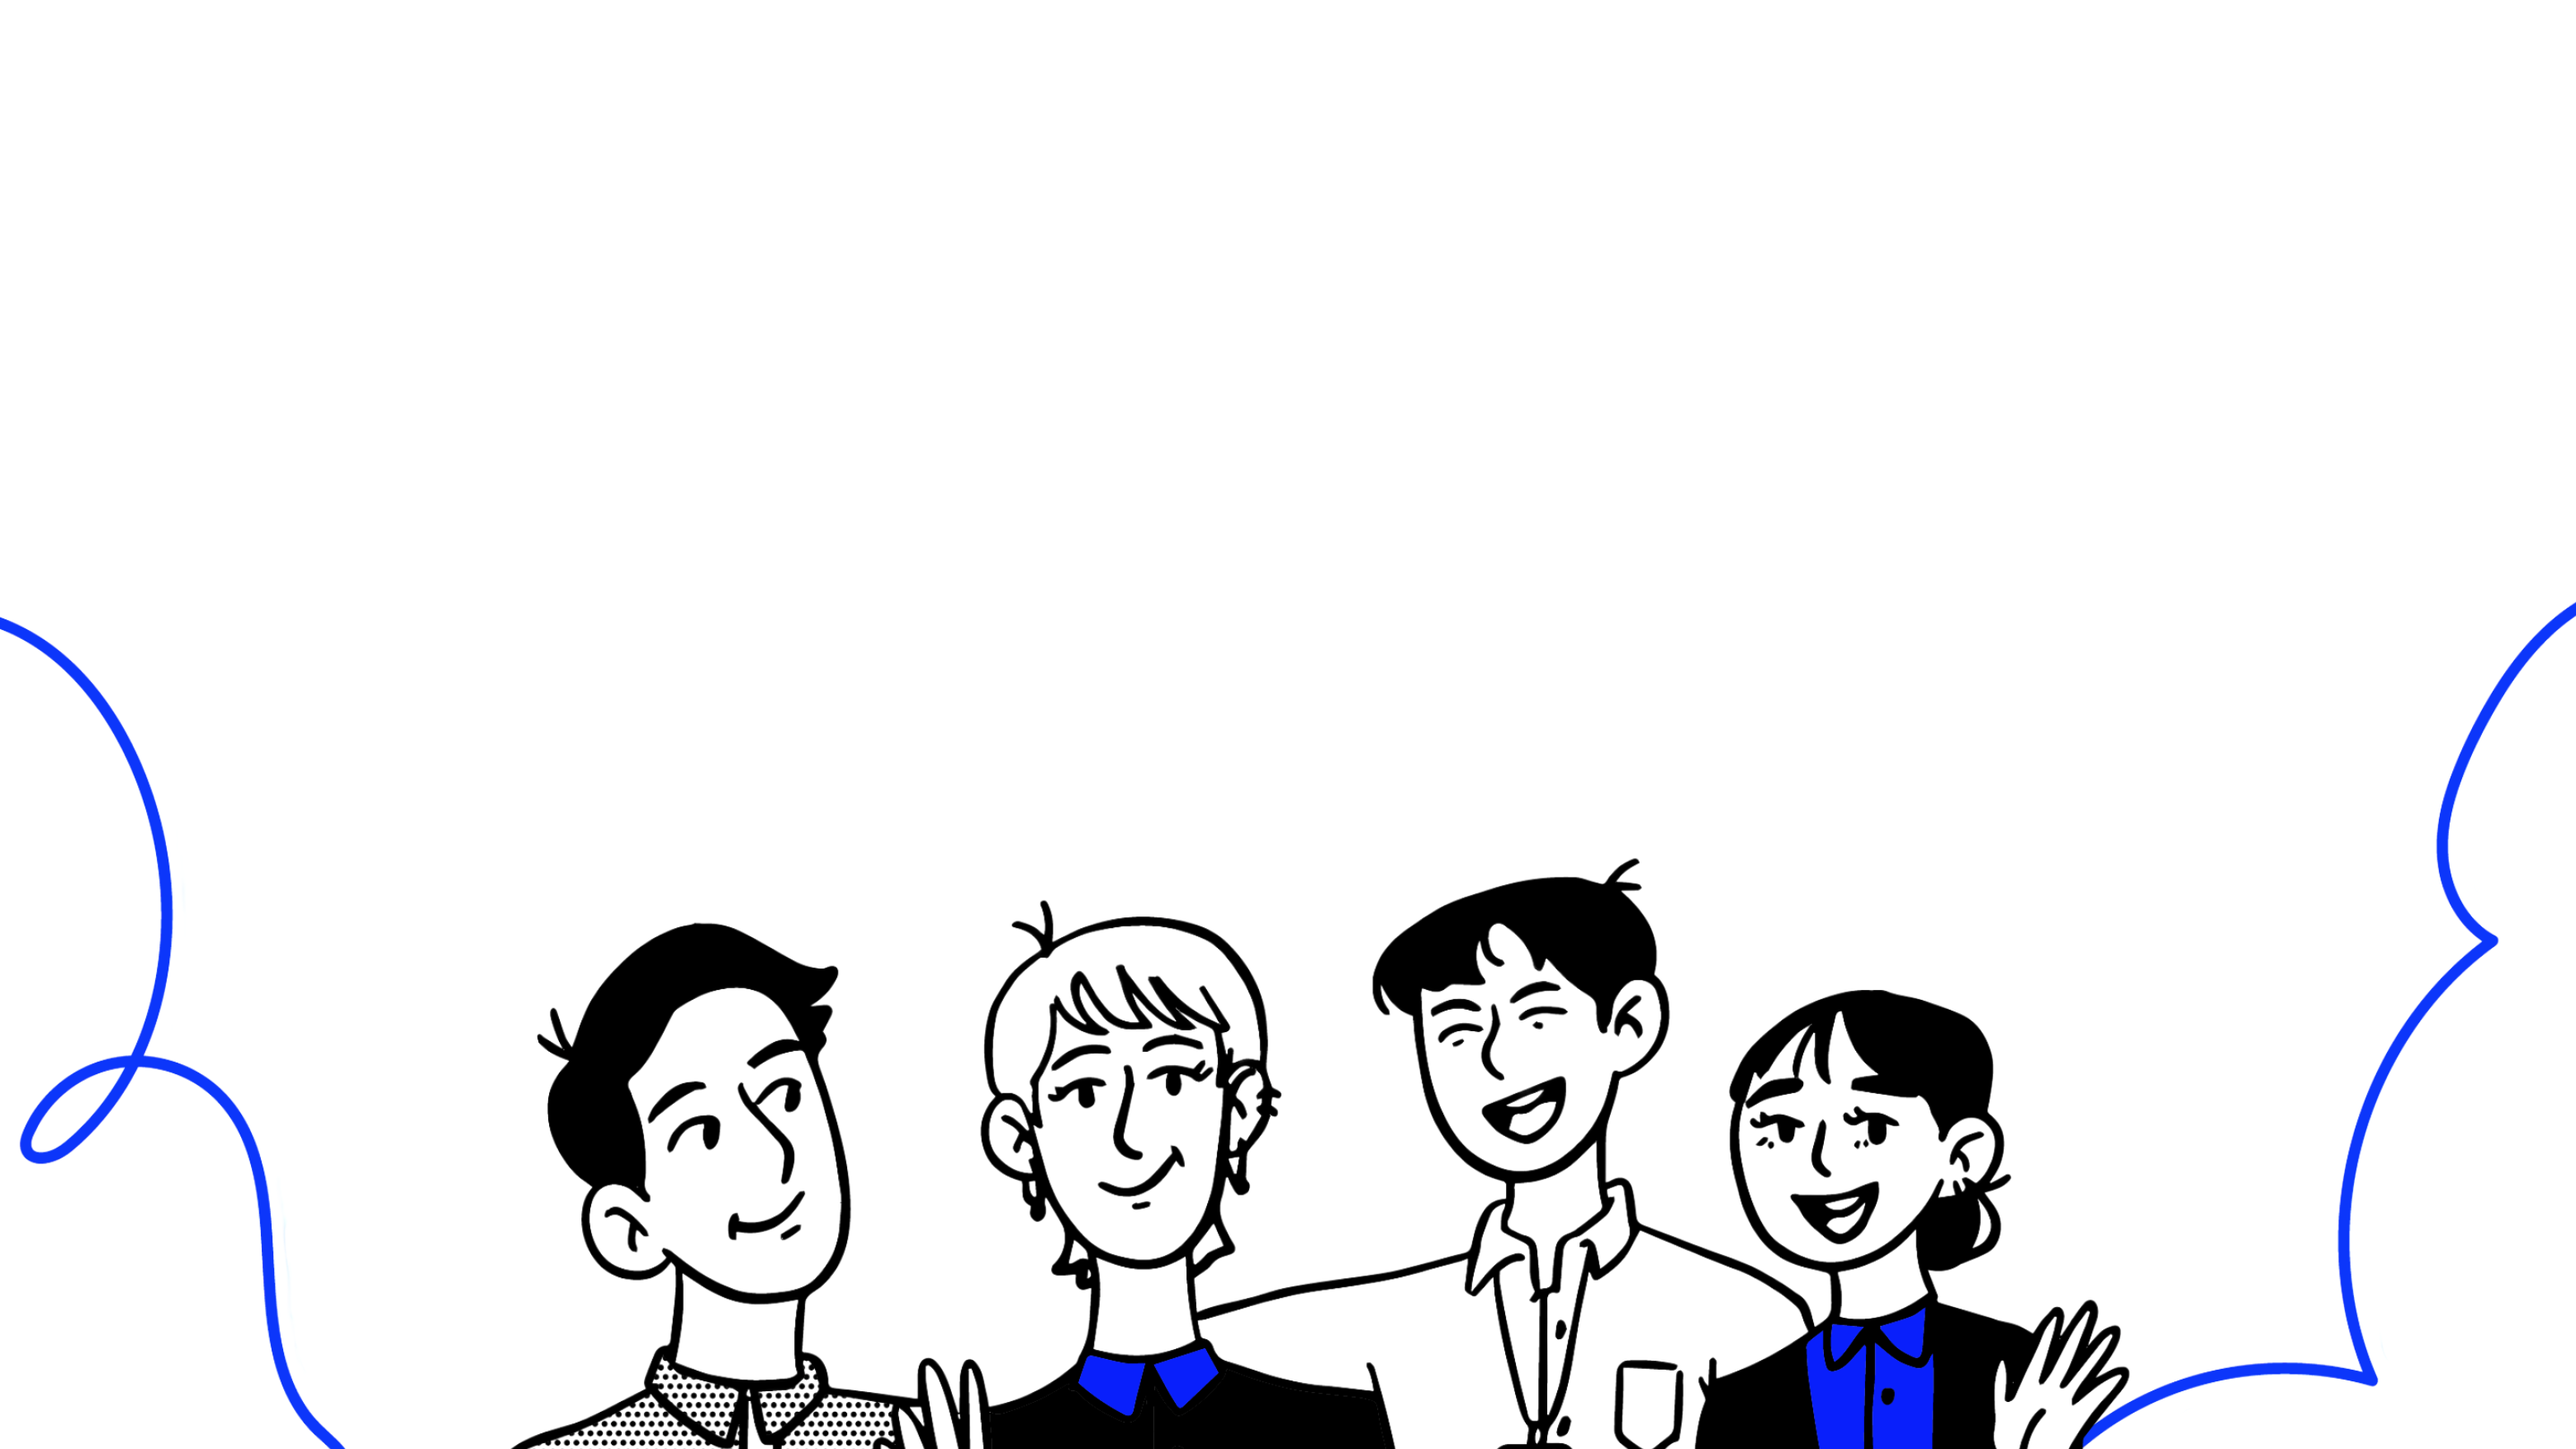
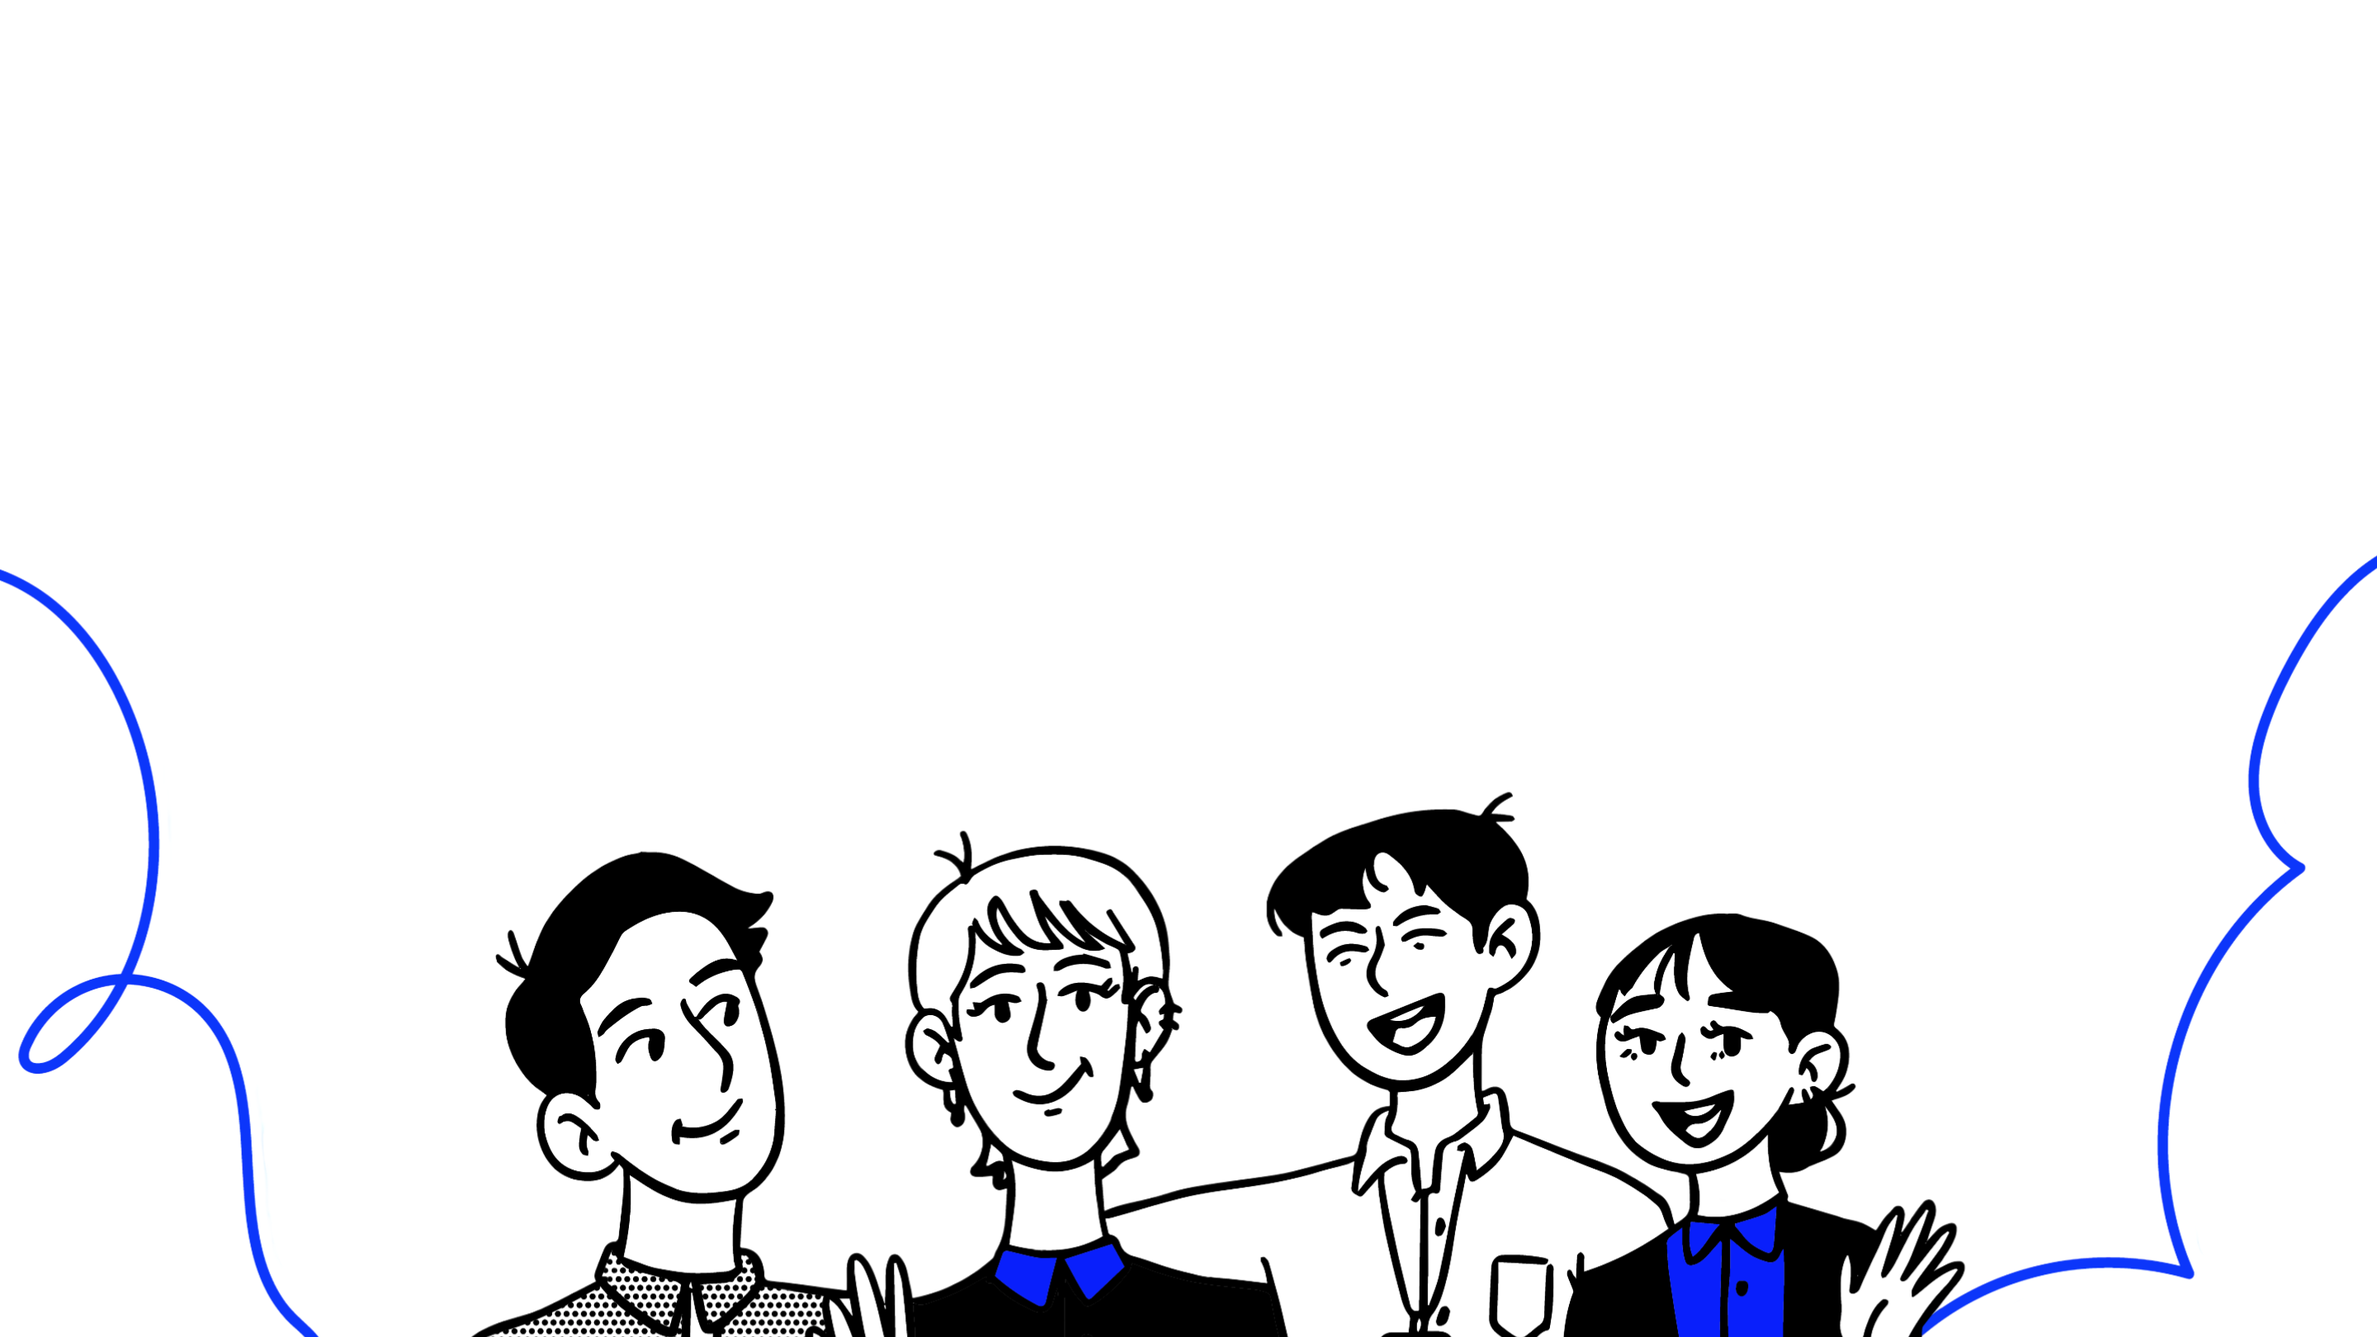
hero bg fixed

diff --git a/src/components/recruiterHero.tsx b/src/components/recruiterHero.tsx
@@ -1,0 +1,106 @@
+import HeroBg from "@/assets/recruiter-hero-bg.png";
+import { Button } from "@/components/ui/button";
+import { Input } from "@/components/ui/input";
+import { useState } from "react";
+import { toast } from "@/hooks/use-toast";
+import { trackEvent } from "@/hooks/useAnalytics";
+
+const RecruiterHero = () => {
+  const [email, setEmail] = useState("");
+  const [showModal, setShowModal] = useState(false);
+
+  const handleRecruiterEarlyAccess = (e: React.FormEvent) => {
+    e.preventDefault();
+    if (email) {
+      trackEvent("join_waitlist_recruiter");
+      toast({
+        title: "Thanks for your interest!",
+        description: "We'll notify you when Bondoul launches.",
+      });
+      setEmail("");
+      setShowModal(false);
+    }
+  };
+
+  const handleRecruiterGetStarted = () => {
+    setShowModal(true);
+    trackEvent("recruiter_get_started");
+  };
+
+  return (
+    <section className="relative min-h-screen flex items-start justify-center overflow-hidden pt-10 md:pt-20">
+      <div
+        className="absolute inset-0 bg-cover bg-center bg-no-repeat"
+        style={{ backgroundImage: `url(${HeroBg})` }}
+      />
+      <div className="absolute inset-0 bg-gradient-hero" />
+      <div className="relative z-10 max-w-6xl mx-auto px-6 text-center">
+        <h1 className="text-5xl md:text-7xl font-bold mb-6 bg-gradient-primary bg-clip-text text-transparent leading-tight">
+          XXXXXX
+          <br />
+          <span className="text-foreground">XXXXXXXXXX</span>
+        </h1>
+
+        <p className="text-xl md:text-2xl text-muted-foreground mb-8 max-w-3xl mx-auto leading-relaxed">
+          Forget clunky templates. Bondoul's CV Builder helps you create one
+          strong CV and remix it for different jobs — fast, smart, and
+          stress-free.
+        </p>
+        <div className="flex flex-col sm:flex-row gap-4 justify-center items-center mb-12">
+          <Button
+            variant="hero"
+            size="lg"
+            className="text-lg px-8 py-4"
+            onClick={handleRecruiterGetStarted}
+          >
+            Get Started
+          </Button>
+        </div>
+      </div>
+      {showModal && (
+        <div className="fixed inset-0 bg-black/50 backdrop-blur-sm flex items-center justify-center z-50 p-3 sm:p-4">
+          <div className="bg-background rounded-2xl p-8 shadow-2xl border border-border/50 max-w-md w-[90%] animate-slide-up relative">
+            {/* Close button */}
+            <button
+              onClick={() => setShowModal(false)}
+              className="absolute top-4 right-4 text-muted-foreground hover:text-foreground transition-colors"
+            >
+              ✕
+            </button>
+
+            <div className="text-center mb-6">
+              <h3 className="text-2xl font-bold mb-2">
+                You're on the VIP list 💌
+              </h3>
+              <p className="text-muted-foreground leading-relaxed">
+                Our CV Builder is almost ready — and you'll be among the first
+                to test it out. It's sleek, stress-free, and built just for job
+                seekers like you.
+              </p>
+            </div>
+
+            <form onSubmit={handleRecruiterEarlyAccess} className="space-y-4">
+              <Input
+                type="email"
+                placeholder="Enter your email to get notified first!"
+                value={email}
+                onChange={(e) => setEmail(e.target.value)}
+                className="w-full"
+                required
+              />
+              <Button
+                type="submit"
+                variant="default"
+                className="w-full text-lg py-3"
+              >
+                🚀 Notify Me
+              </Button>
+            </form>
+          </div>
+        </div>
+      )}
+    </section>
+  );
+};
+
+export default RecruiterHero;

diff --git a/src/pages/Recruiter.tsx b/src/pages/Recruiter.tsx
@@ -1,10 +1,17 @@
 import { usePageTracking } from "@/hooks/usePageTracking";
 import { useScrollTracking } from "@/hooks/useScrollTracking";
+import Navbar from "@/components/Navbar";
+import RecruiterHero from "@/components/recruiterHero";
 
 const Recruiter = () => {
   usePageTracking();
   useScrollTracking();
-  return <div>Reccrutier</div>;
+  return (
+    <div className="min-h-screen bg-gray-50 dark:bg-gray-900">
+      <Navbar />
+      <RecruiterHero />
+    </div>
+  );
 };
 
 export default Recruiter;

diff --git a/src/pages/CVbuilder.tsx b/src/pages/CVbuilder.tsx
@@ -1,5 +1,5 @@
 import Hero from "@/components/CV-Hero";
-import ProblemSolution from "@/components/ProblemSolution";
+import ProblemSolution from "@/components/CV-ProblemSolution";
 import Benefits from "@/components/CV-Benefits";
 import SocialProof from "@/components/SocialProof";
 import CallToAction from "@/components/CV-CallToAction";
